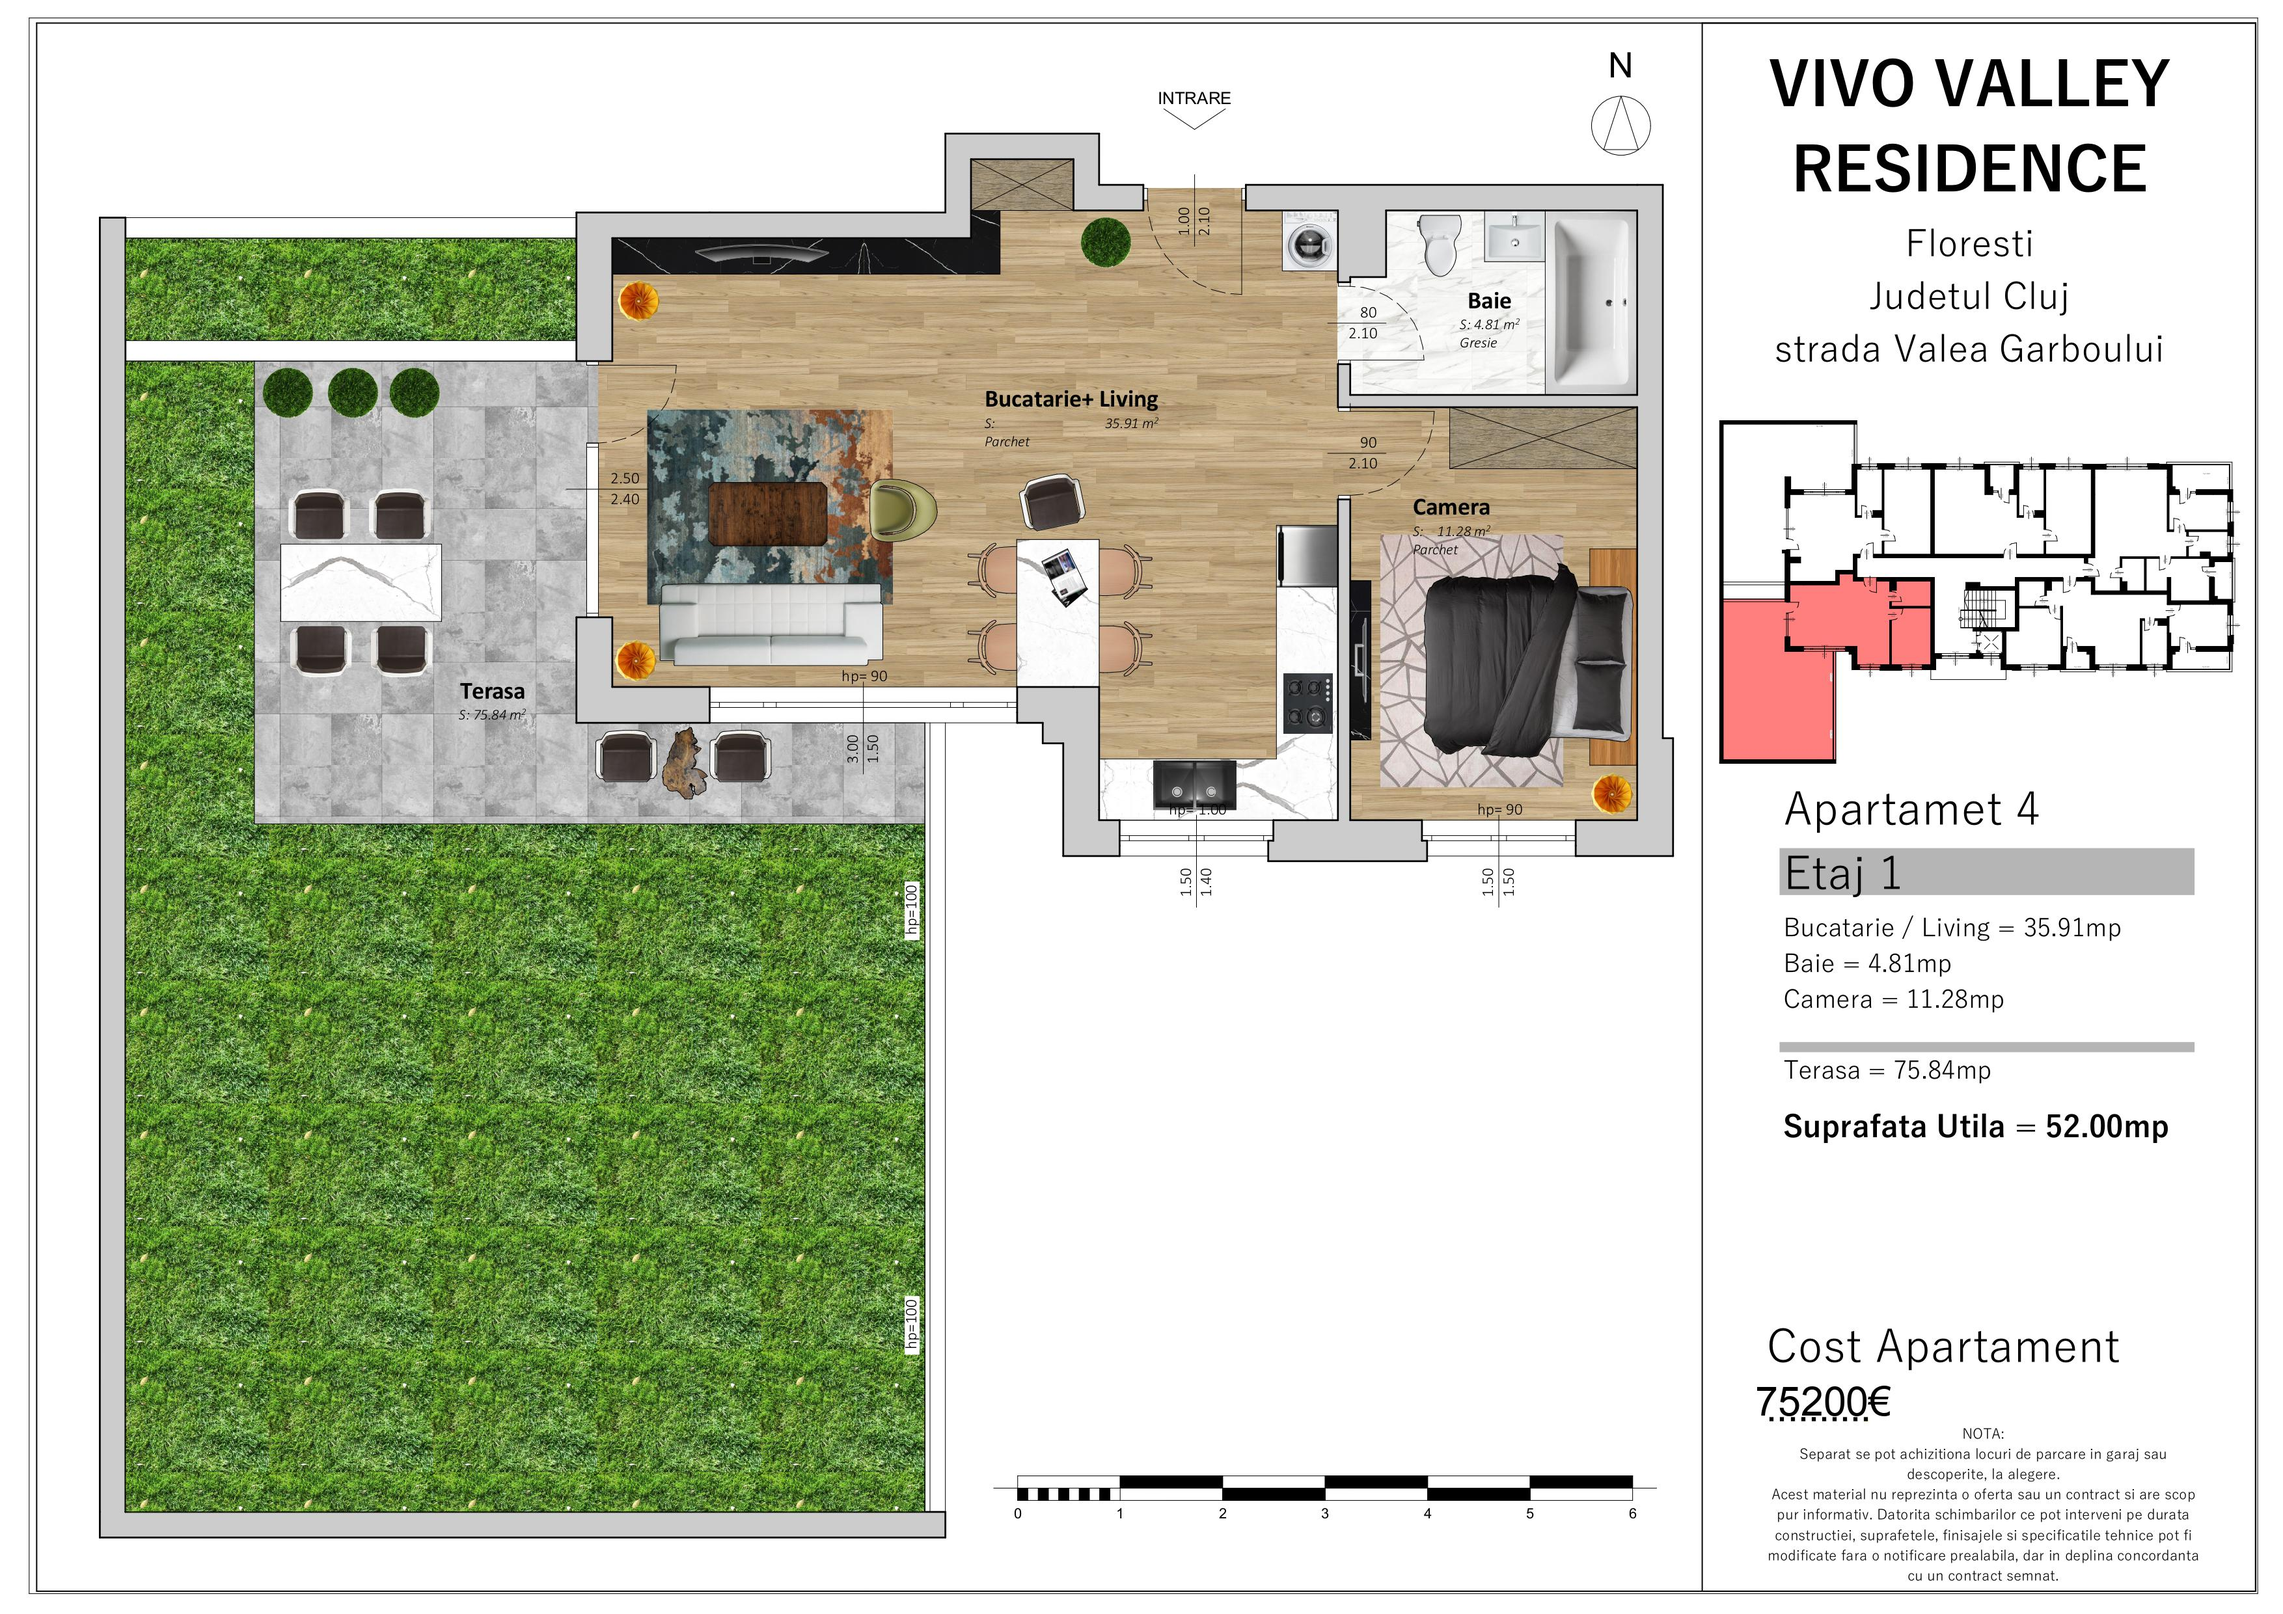
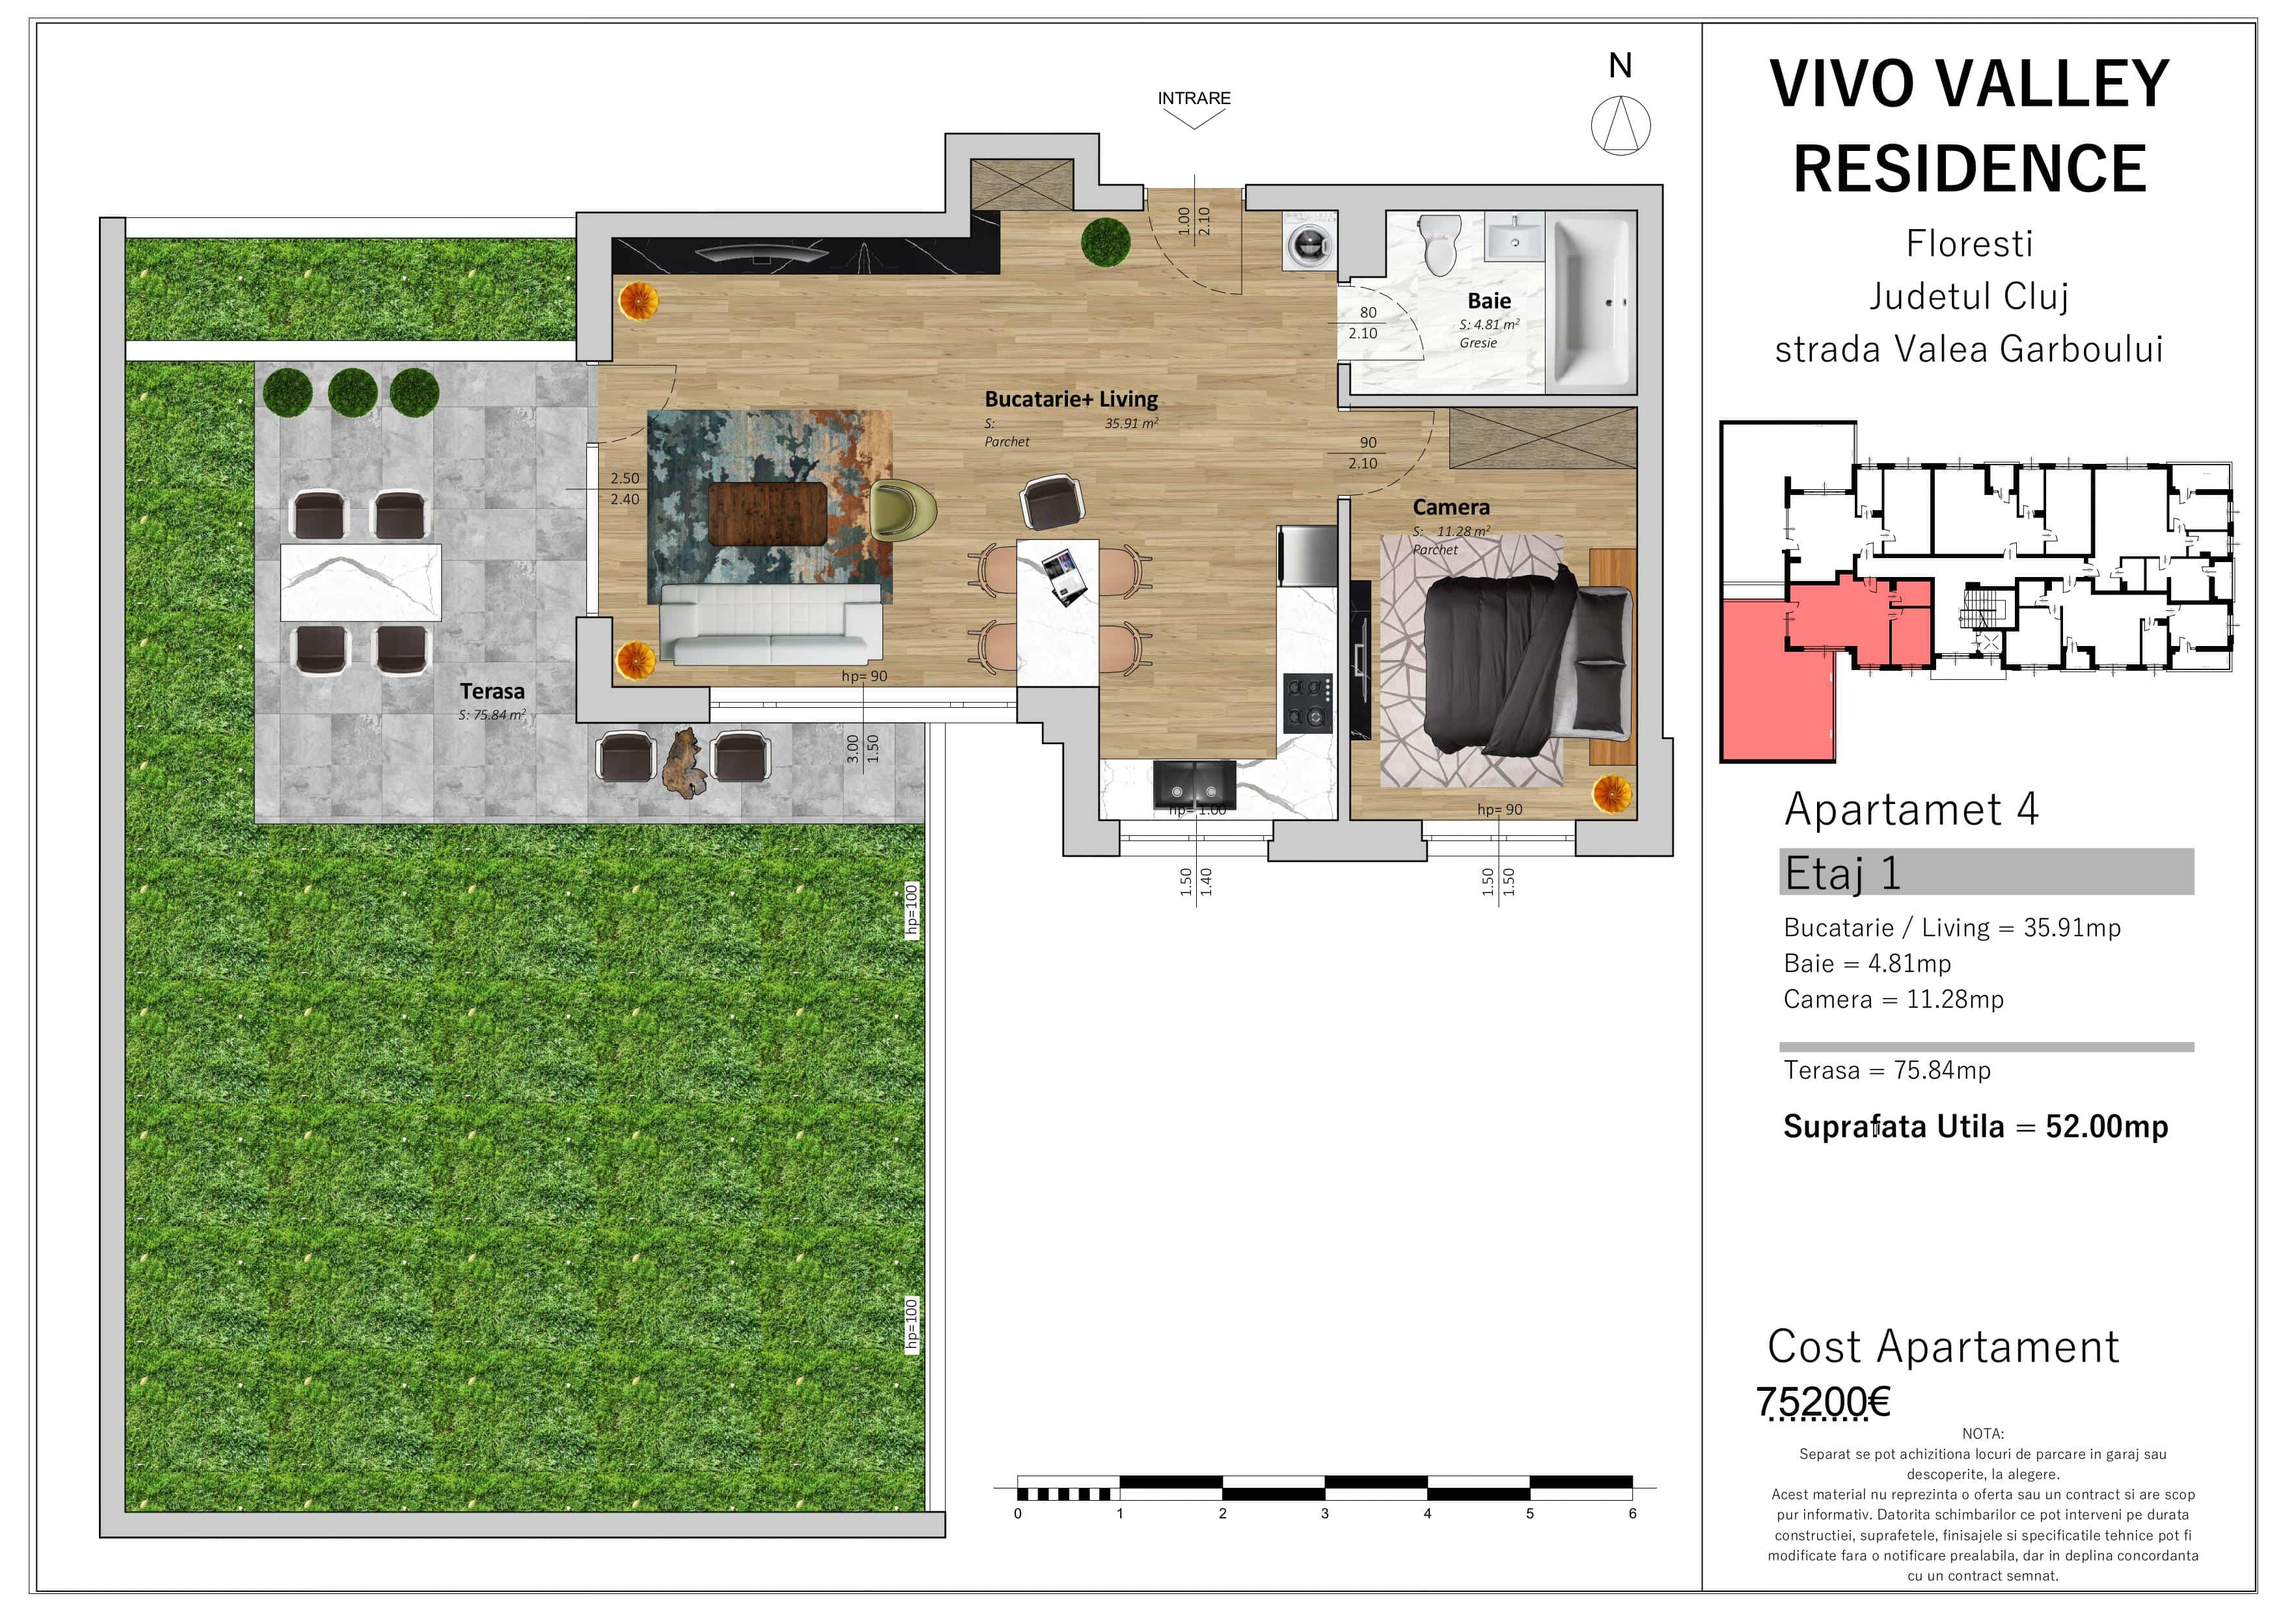
feature/TASK-10 compress photos

Changed region(s): [[0.0621, 0.1552, 0.4039, 0.9311]]

diff --git a/pages/index.html b/pages/index.html
@@ -13,7 +13,7 @@
 
 </head>
 <body>
-<header class="text-center vivo-header d-flex">
+<header class="text-center vivo-header d-flex lazyload">
     <div class="d-flex w-100 h-100 p-3 mx-auto flex-column vivo-header-content">
         <main class="px-3">
             <h1 class="vivo-header-content-title">

diff --git a/pages/apartments-four-rooms.html b/pages/apartments-four-rooms.html
@@ -49,7 +49,7 @@
         </ul>
     </div>
 
-    <div class="wrapper vivo-header-contact">-->
+    <div class="wrapper vivo-header-contact">
         <div class="box-area">
             <div class="box side-one">
                 Contact

diff --git a/pages/apartments-three-rooms.html b/pages/apartments-three-rooms.html
@@ -50,7 +50,7 @@
         </ul>
     </div>
 
-    <div class="wrapper vivo-header-contact">-->
+    <div class="wrapper vivo-header-contact">
         <div class="box-area">
             <div class="box side-one">
                 Contact

diff --git a/pages/apartments-two-rooms.html b/pages/apartments-two-rooms.html
@@ -50,7 +50,7 @@
         </ul>
     </div>
 
-    <div class="wrapper vivo-header-contact">-->
+    <div class="wrapper vivo-header-contact">
         <div class="box-area">
             <div class="box side-one">
                 Contact

diff --git a/pages/index.css b/pages/index.css
@@ -35,7 +35,7 @@ img {
     justify-content: center;
     padding:7.4rem 1.15rem 6.6rem;
     color: #fff;
-    background-color: #758687;
+    background-color: black;
     text-decoration: none;
     height: 100%;
     max-height: 500px;
